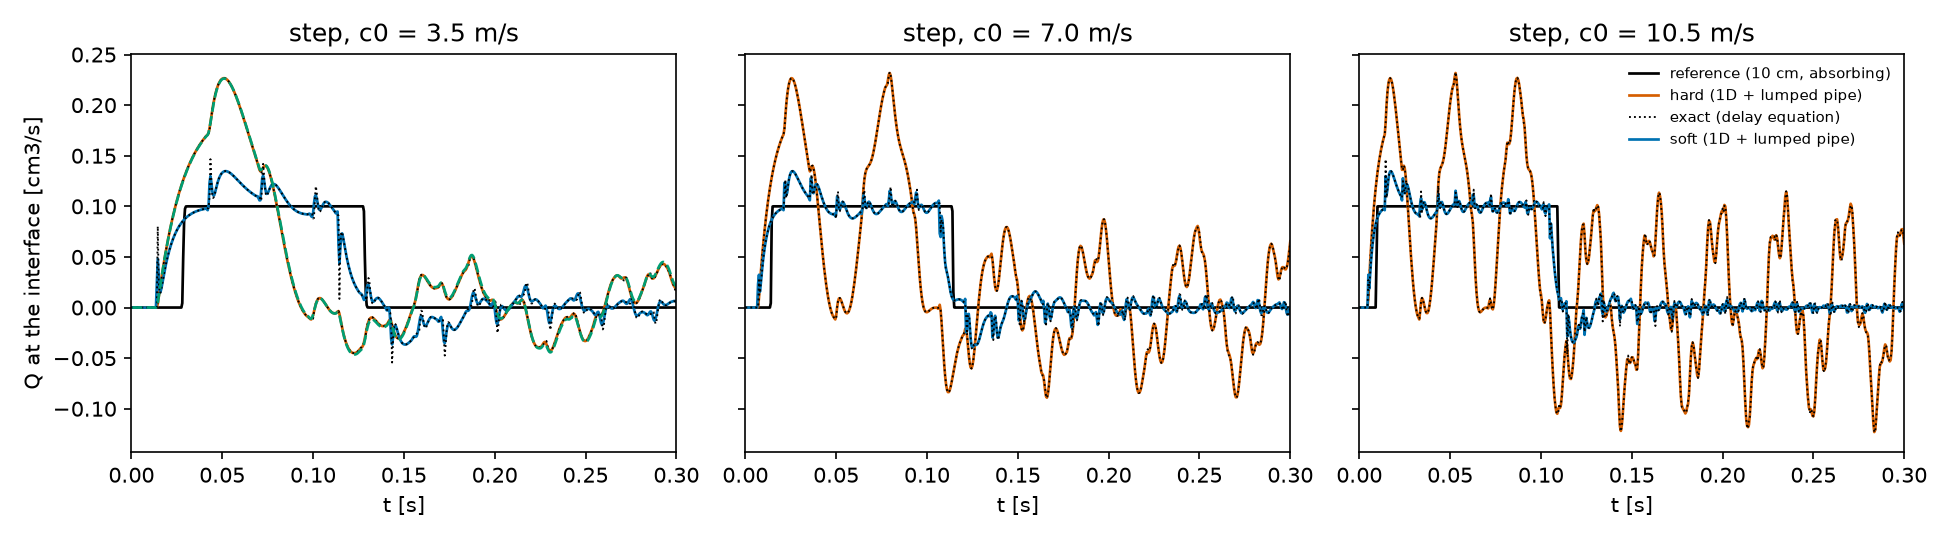
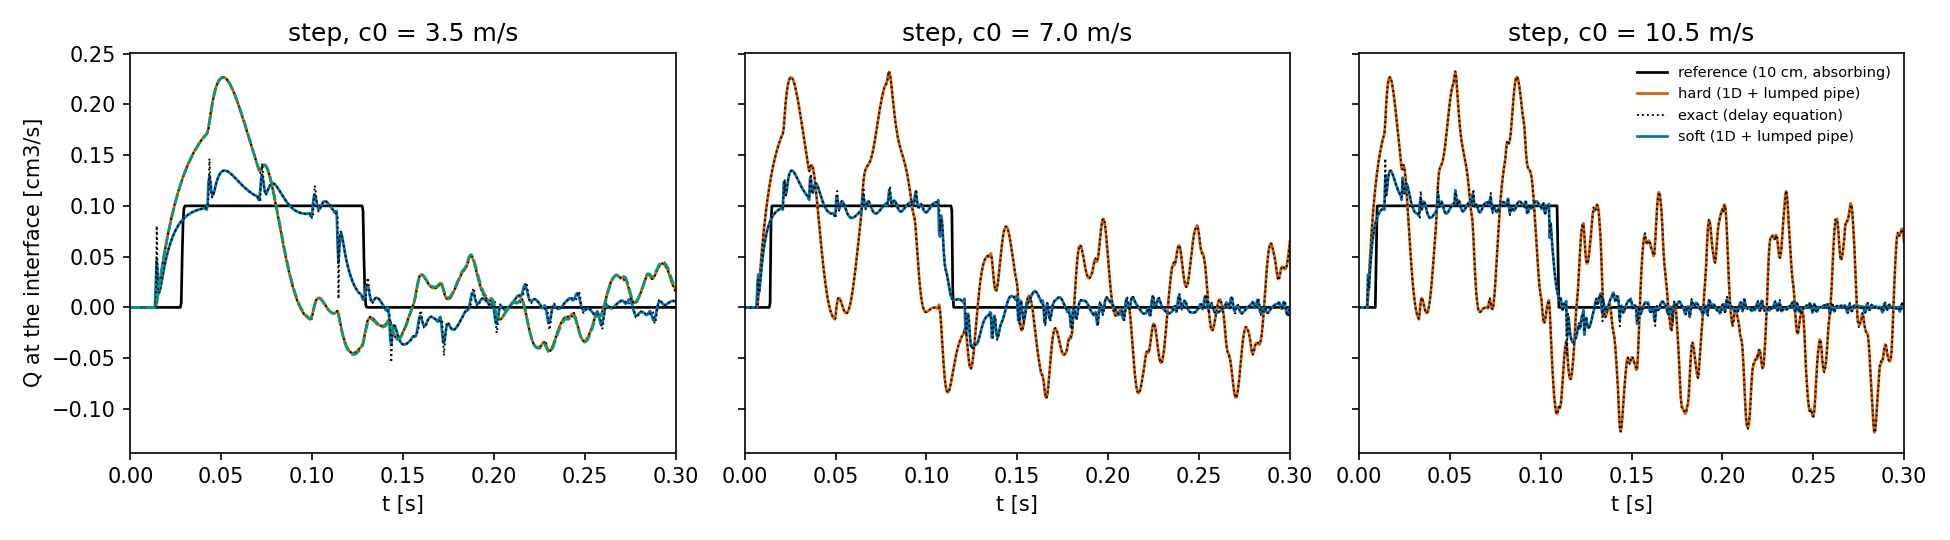
dobroserdova2016: the exact solution of the 3D run with the pipe's patch area
The pimpleFoam pipe's inductance is rho l/A3D with A3D the area of its
32-sided inlet patch (0.9936 pi R^2), which the 3D solution has exactly;
the delay equation was integrated with pi R^2, and the 0.64 % error in L
shifts the resonance over the 21 periods compared. exact() takes the pipe
area (and the number of steps per round trip) as parameters; with A3D the
RMS flow error of the 3D run against the exact solution is 7.7e-3 of the
inflow (sine) and 9.3e-3 (step) instead of 3.8e-2 and 1.7e-2, the peaks
1.596 against 1.596 and 2.263 against 2.265. results.md, the figures and
the README are regenerated; the conclusion (the 3D pipe is the inductor,
the remaining error is the BDF2 phase error of the resonance) stands.

diff --git a/tutorials/circulationModels/coupling3D1D/dobroserdova2016/analyse.py b/tutorials/circulationModels/coupling3D1D/dobroserdova2016/analyse.py
@@ -36,7 +36,7 @@ import numpy as np
 
 HERE = Path(__file__).resolve().parent
 sys.path.insert(0, str(HERE))
-from makeCases import A, C0S, INFLOWS, L0, L1D, LIND, RHO  # noqa: E402
+from makeCases import A, A3D, C0S, INFLOWS, L0, L1D, L3D, LIND, RHO  # noqa: E402
 
 RUNS = HERE/"runs"
 
@@ -49,14 +49,16 @@ def qin(t, inflow):
     return np.where((t >= 0) & (t <= 0.1), 1e-7, 0.0)
 
 
-def exact(inflow, c0, config, t):
+def exact(inflow, c0, config, t, pipeArea=None, n2=4000):
     """Q and P at the interface from the delay equations, by Heun's method on
-    a grid that divides the round-trip time 2 td exactly"""
+    a grid of n2 steps per round trip 2 td. pipeArea: the area of the rigid
+    pipe (its inductance is RHO L3D/pipeArea): the vessel's for the lumped
+    pipe, the 3D patch's (A3D, a 32-gon) for the pimpleFoam pipe"""
+    Lind = RHO*L3D/pipeArea if pipeArea else LIND
     Zc = RHO*c0/A
     Cb = L0*A/(RHO*c0**2)
     R1 = R2 = 0.5*Zc
     td = L1D/c0
-    n2 = 4000                              # steps per round trip
     dt = 2*td/n2
     N = int(math.ceil(t[-1]/dt)) + 2
     tt = np.arange(N + 1)*dt
@@ -71,9 +73,9 @@ def exact(inflow, c0, config, t):
 
     def rates(fk, Qk, Pck, Q2k):
         if config == "hard":
-            return (2*fk - Zc*Qk)/LIND, 0.0, 0.0
+            return (2*fk - Zc*Qk)/Lind, 0.0, 0.0
         Q1 = (2*fk - Pck)/(Zc + R1)
-        return 0.0, (Q1 - Q2k)/Cb, (Pck - R2*Q2k)/LIND
+        return 0.0, (Q1 - Q2k)/Cb, (Pck - R2*Q2k)/Lind
 
     for k in range(N):
         fk, fk1 = f_at(k), f_at(k + 1)
@@ -146,7 +148,7 @@ def main():
             d = load_3d(f"{inflow}_{c0name}_hard3D")
             if d is not None:
                 t, Q, P = d
-                Qe, Pe = exact(inflow, c0, "hard", t)
+                Qe, Pe = exact(inflow, c0, "hard", t, pipeArea=A3D)
                 rows.append(("hard (1D + pimpleFoam pipe)", Q.max()/1e-7,
                              Qe.max()/1e-7, err(Q, Qe, 1e-7),
                              err(P, Pe, Zc*1e-7), t, Q, P, Qe, Pe))

diff --git a/tutorials/circulationModels/coupling3D1D/dobroserdova2016/README.md b/tutorials/circulationModels/coupling3D1D/dobroserdova2016/README.md
@@ -79,10 +79,14 @@ See `results.md` and `plots/dobroserdova_sine.png`, `plots/dobroserdova_step.png
   jump the soft coupling passes instantly through R1). The RMS errors are
   listed in `results.md`; the max norms are set by the smeared jump.
 - **3D runs.** The pimpleFoam pipe with the hard coupling reproduces the
-  exact solution: peak flow 1.596 against 1.594 (sine) and 2.263 against
-  2.267 (step). Its RMS error in the flow, 3.8e-2 of the inflow for the sine
-  at dt = 1 ms, is the phase error of the BDF2 time scheme on the undamped
-  17.5 Hz resonance over 21 of its periods (57 steps per period), not a
+  exact solution: peak flow 1.596 against 1.596 (sine) and 2.263 against
+  2.265 (step). The exact solution of the 3D run takes the pipe's inductance
+  with the area of its 32-sided inlet patch (`A3D` = 0.9936 pi R^2, as the
+  rigid-segment benchmark does), which the 3D solution has exactly; with
+  pi R^2 instead, the 0.64 % error in L shifts the resonance and the RMS
+  flow error over 21 of its periods reads 3.8e-2 instead of 7.7e-3. That
+  7.7e-3 of the inflow (sine, dt = 1 ms) is the phase error of the BDF2 time
+  scheme on the undamped 17.5 Hz resonance (57 steps per period), not a
   coupling error: the 1D run with the lumped pipe, whose CFL step is 50 times
   smaller, is at 3.3e-4. The 3D rigid pipe is the inductor, and the coupling
   adds nothing of its own.
@@ -103,3 +107,25 @@ different problem, and the statement of what the soft coupling's buffer does
 (it damps the vessel's resonance by terminating it with its characteristic
 impedance at high frequency) rather than that it "reduces spurious
 reflections".
+
+## Order in time
+
+`../orderStudy.py --case dobroserdova2016` repeats the 3D run of the hard
+coupling (sine inflow, c0 = 3.5 m/s) from rest over the first period at dt
+= 2, 1, 0.5, 0.25 and 0.125 ms, with the fluid ddt scheme and the implicit
+coupling order both at q = 1 (`Euler`), 2 (`backward`), 3 (`BDF 3`) and 4
+(`BDF 4`), the 1D vessel at CFL 0.1 and the PIMPLE loop to a pressure
+residual of 1e-10. Observed orders by self-convergence (`orders.md`,
+`plots/orders.png`), the RMS over the period of the port flow and pressure:
+
+| dt triple [ms] | Euler | backward | BDF 3 | BDF 4 |
+|---|---|---|---|---|
+| 2 / 1 / 0.5 | 0.41 / 0.41 | 1.78 / 1.71 | 2.87 / 2.45 | 3.33 / 2.82 |
+| 1 / 0.5 / 0.25 | 0.87 / 0.85 | 1.99 / 1.92 | 2.91 / 2.73 | 3.47 / 3.43 |
+| 0.5 / 0.25 / 0.125 | 0.94 / 0.92 | 2.00 / 1.97 | 2.97 / 2.94 | 3.82 / 3.92 |
+
+(Q / P.) Every family reaches its nominal order; the coarse triples are
+pre-asymptotic because the first period from rest is the vessel's resonant
+transient (tau = 2.5 ms against dt = 2 ms). The finest Euler, backward and
+BDF 3 runs differ from the finest BDF 4 run by 1.2e-2, 3.4e-5 and 4.4e-7 of
+the flow.

diff --git a/tutorials/circulationModels/coupling3D1D/dobroserdova2016/results.md b/tutorials/circulationModels/coupling3D1D/dobroserdova2016/results.md
@@ -7,7 +7,7 @@
 | 3.5 | reference (10 cm, absorbing) | 1.000 | - | - | - |
 | 3.5 | hard (1D + lumped pipe) | 1.594 | 1.594 | 3.3e-04 / 1.1e-03 | 3.7e-03 / 1.4e-02 |
 | 3.5 | soft (1D + lumped pipe) | 1.128 | 1.128 | 2.2e-04 / 1.9e-03 | 1.3e-03 / 3.4e-03 |
-| 3.5 | hard (1D + pimpleFoam pipe) | 1.596 | 1.594 | 3.8e-02 / 9.0e-02 | 3.5e-02 / 1.1e-01 |
+| 3.5 | hard (1D + pimpleFoam pipe) | 1.596 | 1.596 | 7.7e-03 / 2.1e-02 | 1.2e-02 / 4.7e-02 |
 | 7.0 | reference (10 cm, absorbing) | 1.000 | - | - | - |
 | 7.0 | hard (1D + lumped pipe) | 1.228 | 1.229 | 2.9e-04 / 1.2e-03 | 2.7e-03 / 9.8e-03 |
 | 7.0 | soft (1D + lumped pipe) | 1.022 | 1.022 | 8.9e-05 / 7.8e-04 | 6.5e-04 / 1.7e-03 |
@@ -24,7 +24,7 @@ Hard coupling, sine, periodic state: |Gamma| = 1 at every c0; with the inlet's o
 | 3.5 | reference (10 cm, absorbing) | 1.000 | - | - | - |
 | 3.5 | hard (1D + lumped pipe) | 2.266 | 2.267 | 9.5e-03 / 4.4e-02 | 2.6e-01 / 2.3e+00 |
 | 3.5 | soft (1D + lumped pipe) | 1.348 | 1.466 | 3.1e-02 / 3.5e-01 | 6.5e-02 / 4.1e-01 |
-| 3.5 | hard (1D + pimpleFoam pipe) | 2.263 | 2.267 | 1.7e-02 / 6.1e-02 | 2.5e-01 / 2.1e+00 |
+| 3.5 | hard (1D + pimpleFoam pipe) | 2.263 | 2.265 | 9.3e-03 / 3.9e-02 | 2.5e-01 / 2.2e+00 |
 | 7.0 | reference (10 cm, absorbing) | 1.000 | - | - | - |
 | 7.0 | hard (1D + lumped pipe) | 2.317 | 2.326 | 1.1e-02 / 3.9e-02 | 2.2e-01 / 2.7e+00 |
 | 7.0 | soft (1D + lumped pipe) | 1.348 | 1.348 | 2.2e-02 / 3.0e-01 | 7.4e-02 / 4.0e-01 |
